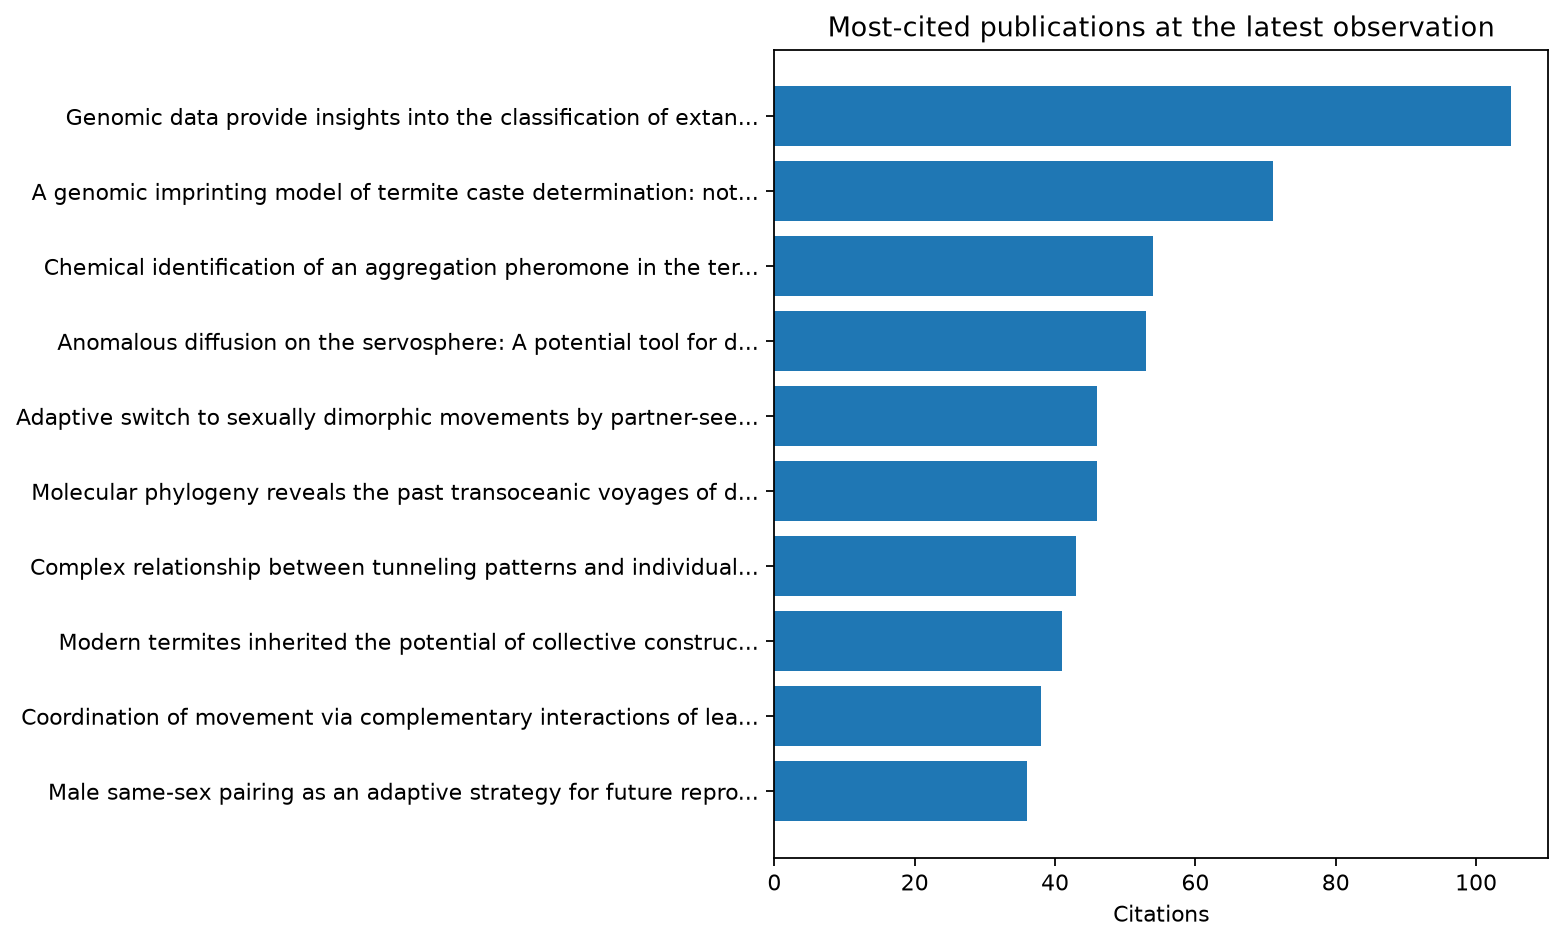
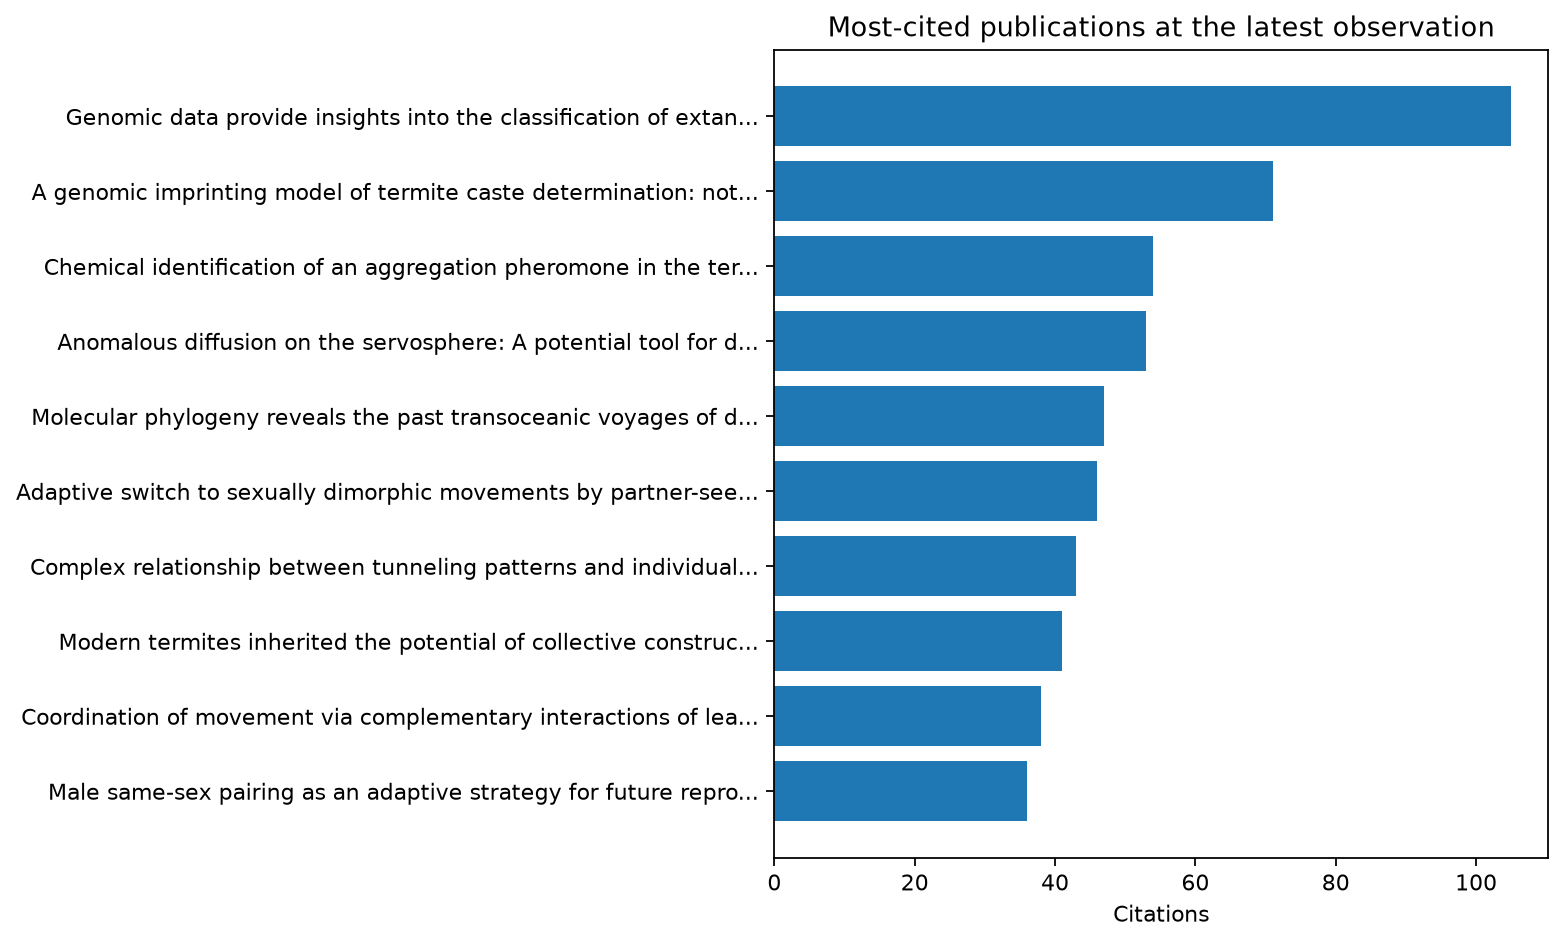
Update Google Scholar snapshot

Changed region(s): [[0.0, 0.492, 0.4607, 0.5536], [0.0, 0.4305, 0.4607, 0.4613], [0.6756, 0.3998, 0.7063, 0.4613]]

diff --git a/reports/forecast.md b/reports/forecast.md
@@ -1,19 +1,19 @@
 # Citation forecast
 
-Latest observation: **1,055 citations** on 2026-10-28.
+Latest observation: **1,056 citations** on 2026-10-30.
 
 ## Model comparison
 
 | Model | Training RMSE | Backtest RMSE | 2026 | 2027 | 2028 | 2029 | 2030 |
 |---|---:|---:|---:|---:|---:|---:|---:|
-| Linear | 145.3 | 609.1 | 718 | 802 | 887 | 972 | 1057 |
+| Linear | 145.3 | 609.3 | 718 | 802 | 887 | 972 | 1057 |
 | Quadratic | 28.3 | 289.4 | 1043 | 1274 | 1528 | 1804 | 2103 |
-| Exponential | 313.5 | 2932.6 | 2332 | 3903 | 6541 | 10947 | 18321 |
-| Shifted power law | 9.4 | 13.2 | 1093 | 1435 | 1856 | 2367 | 2980 |
+| Exponential | 313.7 | 2935.9 | 2331 | 3901 | 6538 | 10942 | 18313 |
+| Shifted power law | 9.4 | 13.1 | 1093 | 1435 | 1856 | 2367 | 2980 |
 
 **Recommended simple extrapolation: Shifted power law.** It had the lowest RMSE when models were fit only through 2023-01-01 and then asked to predict the later 2026 observations.
 
-As a short-term sanity check, a straight line fitted only to observations from April 2026 onward gives year-end forecasts of **2026: 1109**, **2027: 1438**, **2028: 1767**, **2029: 2096**, **2030: 2425**.
+As a short-term sanity check, a straight line fitted only to observations from April 2026 onward gives year-end forecasts of **2026: 1109**, **2027: 1436**, **2028: 1765**, **2029: 2093**, **2030: 2421**.
 
 ## Milestones under the recommended model
 
@@ -22,7 +22,7 @@ As a short-term sanity check, a straight line fitted only to observations from A
 | 1,100 | 2027-01-09 |
 | 1,200 | 2027-05-03 |
 | 1,500 | 2028-03-02 |
-| 2,000 | 2029-04-20 |
+| 2,000 | 2029-04-21 |
 | 2,500 | 2030-03-27 |
 | 3,000 | 2031-01-11 |
 

diff --git a/reports/latest.md b/reports/latest.md
@@ -1,10 +1,10 @@
 # Latest Google Scholar snapshot
 
-Observed at `2026-10-28T18:21:39Z`.
+Observed at `2026-10-30T18:01:39Z`.
 
 | Metric | All | Recent window |
 |---|---:|---:|
-| Citations | 1055 | 904 |
+| Citations | 1056 | 905 |
 | h-index | 20 | 17 |
 | i10-index | 31 | 30 |
 | Publications tracked | 74 |  |
@@ -13,4 +13,4 @@ Observed at `2026-10-28T18:21:39Z`.
 
 | Publication | Previous | Current | Change | Type |
 |---|---:|---:|---:|---|
-| Subterranean termites (Coptotermes formosanus [Blattodea: Rhinotermitidae]) colonies can readily intercept commercial inground bait stations placed at label … | 10.0 | 11 | +1 | citation_increase |
+| Molecular phylogeny reveals the past transoceanic voyages of drywood termites (Isoptera, Kalotermitidae) | 46.0 | 47 | +1 | citation_increase |
